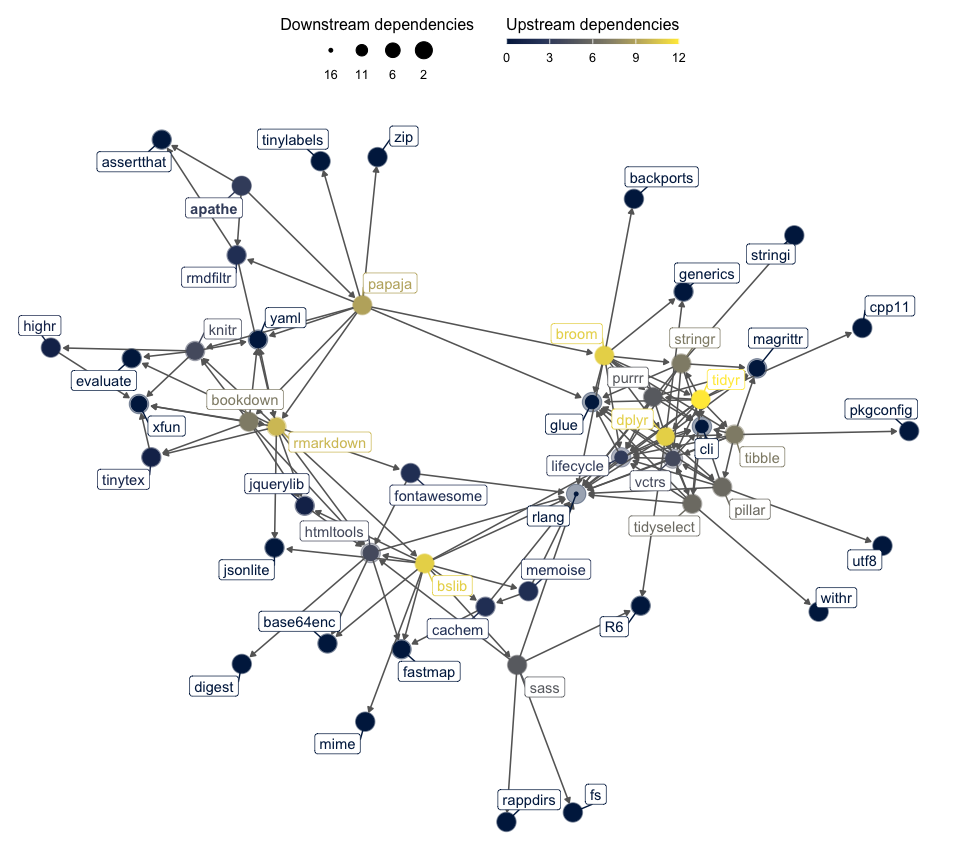
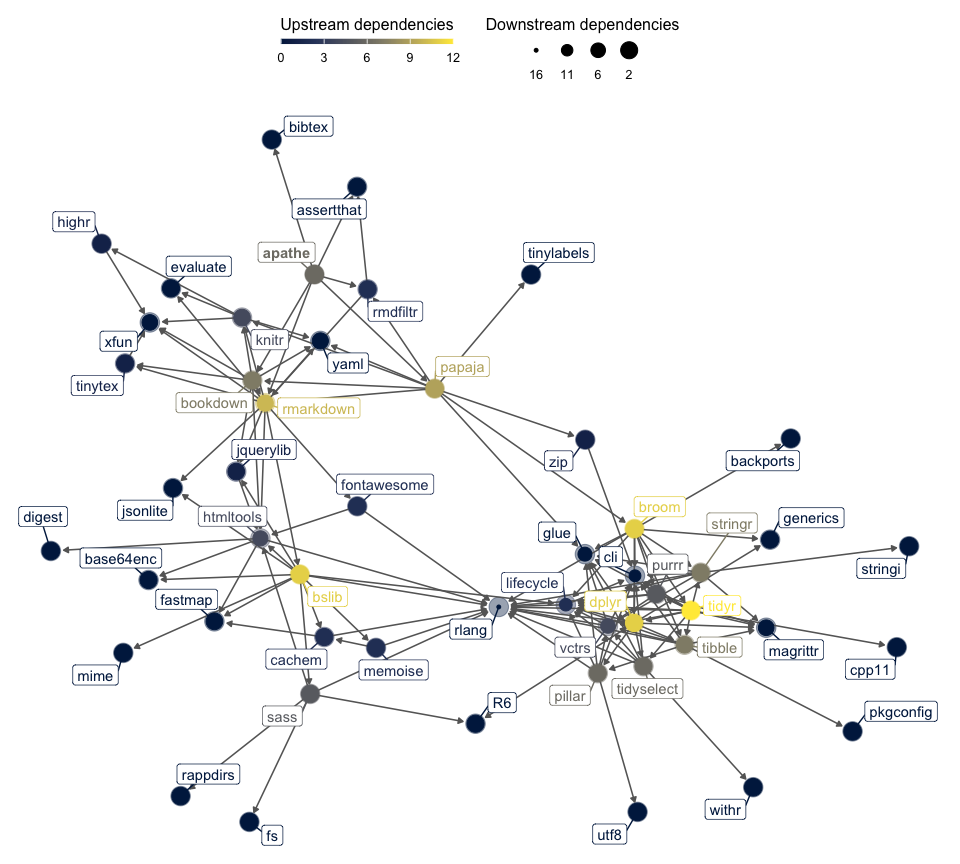
Adds bibtex-dummy function to allow import, updates DESCRIPTION.

diff --git a/README.md b/README.md
@@ -9,7 +9,7 @@ has not yet been a stable, usable release suitable for the
 public.](https://www.repostatus.org/badges/latest/wip.svg)](https://www.repostatus.org/#wip)
 ![GitHub last commit
 (main)](https://img.shields.io/github/last-commit/crsh/apathe/main?label=Last%20commit&logo=github)
-[![R-CMD-check](https://github.com/crsh/apathe/actions/workflows/R-CMD-check.yaml/badge.svg)](https://github.com/crsh/apathe/actions/workflows/R-CMD-check.yaml)
+[![R-CMD-check](https://github.com/crsh/apathe/actions/workflows/rhub.yaml/badge.svg)](https://github.com/crsh/apathe/actions/workflows/rhub.yaml)
 [![codecov](https://codecov.io/gh/crsh/apathe/branch/master/graph/badge.svg)](https://app.codecov.io/gh/crsh/apathe)
 [![GitHub bug
 issues](https://img.shields.io/github/issues/crsh/apathe/bug?label=Bugs&logo=github)](https://github.com/crsh/apathe/issues?q=is%3Aopen+is%3Aissue+label%3Abug)
@@ -94,7 +94,7 @@ YAML front matter
 
 Please cite **apathe** if you use it.
 
-    Aust, F. (2024). apathe: American Psychological Association Thesis with R Markdown. R package version 0.0.1. Retrieved from https://github.com/crsh/apathe
+    Aust, F. (2025). apathe: American Psychological Association Thesis with R Markdown. R package version 0.1.0. Retrieved from https://github.com/crsh/apathe
 
 For convenience, you can [use
 `cite_r()`](https://frederikaust.com/papaja_man/writing.html#citing-r-and-its-packages)
@@ -106,8 +106,8 @@ your BibTeX file:
 @Manual{,
   title = {{apathe}: {American} Psychological Association Thesis with {R Markdown}},
   author = {Frederik Aust},
-  year = {2024},
-  note = {R package version 0.0.1},
+  year = {2025},
+  note = {R package version 0.1.0},
   url = {https://github.com/crsh/apathe},
 }
 ```

diff --git a/LICENSE.md b/LICENSE.md
@@ -1,6 +1,6 @@
 # MIT License
 
-Copyright (c) 2024 apathe authors
+Copyright (c) 2026 Frederik Aust
 
 Permission is hereby granted, free of charge, to any person obtaining a copy
 of this software and associated documentation files (the "Software"), to deal
